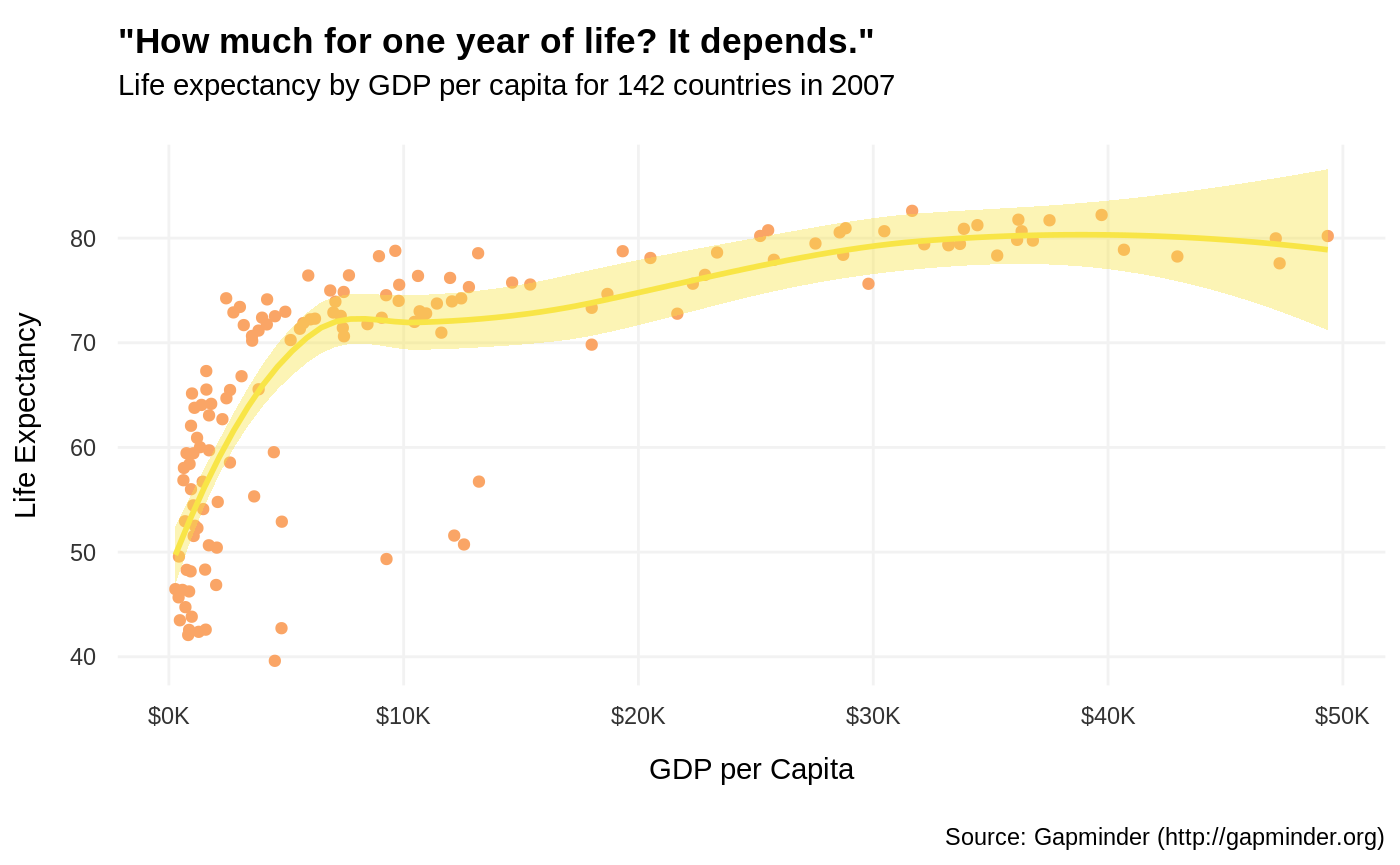
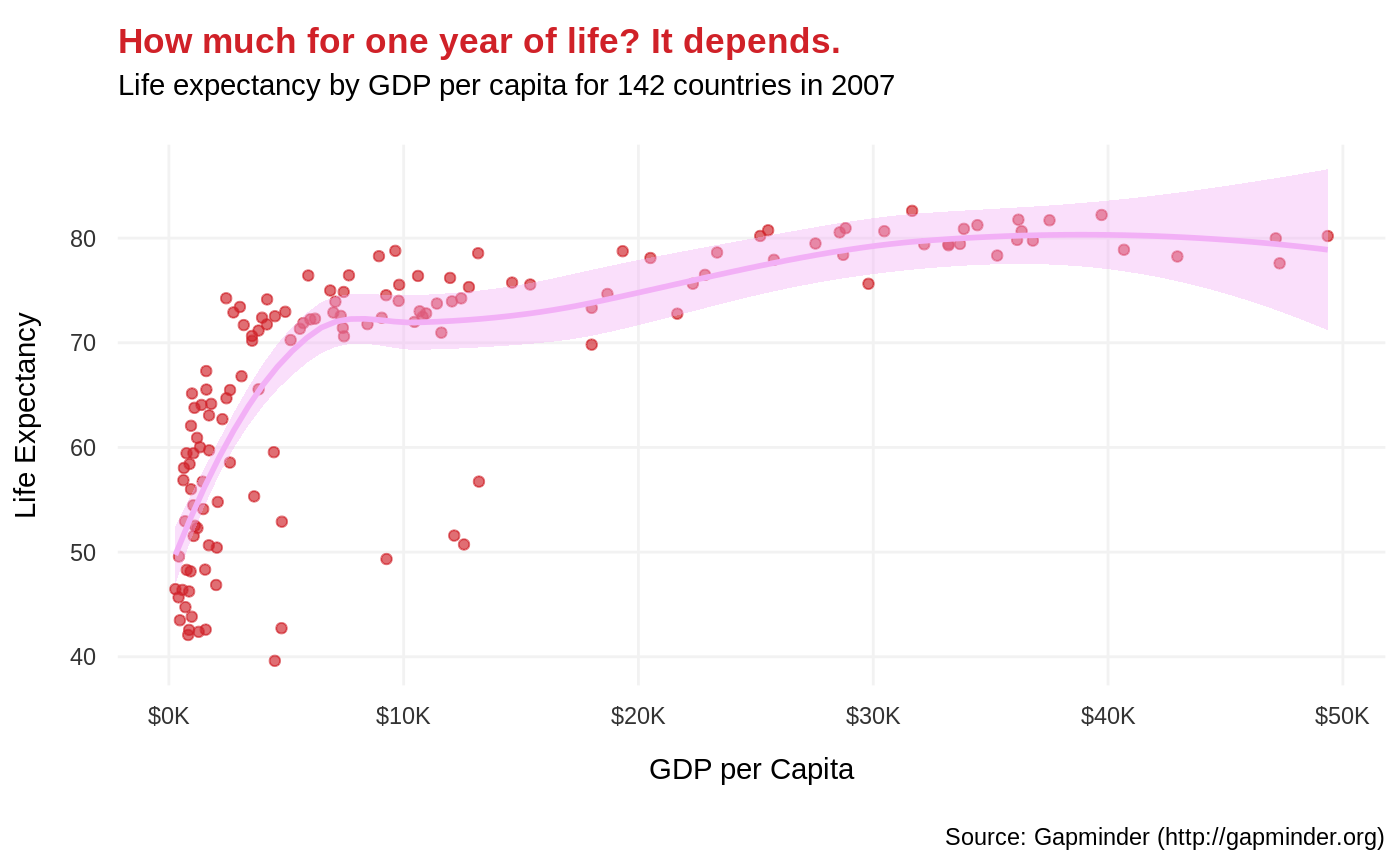
started colour palette development

diff --git a/docs/articles/gallery.html b/docs/articles/gallery.html
@@ -123,51 +123,51 @@
 <a class="sourceLine" id="cb3-2" data-line-number="2"><span class="st">  </span><span class="kw"><a href="https://rdrr.io/r/stats/filter.html">filter</a></span>(year <span class="op">==</span><span class="st"> </span><span class="dv">2007</span>)</a>
 <a class="sourceLine" id="cb3-3" data-line-number="3"></a>
 <a class="sourceLine" id="cb3-4" data-line-number="4"><span class="kw">ggplot</span>(data_viz, <span class="kw">aes</span>(<span class="dt">x =</span> gdp_percap, <span class="dt">y =</span> life_exp)) <span class="op">+</span></a>
-<a class="sourceLine" id="cb3-5" data-line-number="5"><span class="st">  </span><span class="kw">geom_point</span>() <span class="op">+</span></a>
+<a class="sourceLine" id="cb3-5" data-line-number="5"><span class="st">  </span><span class="kw">geom_point</span>(<span class="dt">alpha =</span> <span class="fl">0.65</span>) <span class="op">+</span></a>
 <a class="sourceLine" id="cb3-6" data-line-number="6"><span class="st">  </span><span class="kw">geom_smooth</span>(<span class="dt">method =</span> <span class="st">"loess"</span>) <span class="op">+</span></a>
 <a class="sourceLine" id="cb3-7" data-line-number="7"><span class="st">  </span><span class="kw">scale_x_continuous</span>(<span class="dt">labels =</span> <span class="kw"><a href="https://rdrr.io/pkg/scales/man/dollar_format.html">dollar_format</a></span>(<span class="dt">scale =</span> <span class="fl">1e-3</span>, <span class="dt">suffix =</span> <span class="st">"K"</span>)) <span class="op">+</span></a>
 <a class="sourceLine" id="cb3-8" data-line-number="8"><span class="st">  </span><span class="kw">labs</span>(</a>
-<a class="sourceLine" id="cb3-9" data-line-number="9">    <span class="dt">title =</span> <span class="st">"</span><span class="ch">\"</span><span class="st">How much for one year of life? It depends.</span><span class="ch">\"</span><span class="st">"</span>,</a>
+<a class="sourceLine" id="cb3-9" data-line-number="9">    <span class="dt">title =</span> <span class="st">"How much for one year of life? It depends."</span>,</a>
 <a class="sourceLine" id="cb3-10" data-line-number="10">    <span class="dt">subtitle =</span> <span class="st">"Life expectancy by GDP per capita for 142 countries in 2007"</span>,</a>
 <a class="sourceLine" id="cb3-11" data-line-number="11">    <span class="dt">caption =</span> <span class="st">"Source: Gapminder (http://gapminder.org)"</span>,</a>
 <a class="sourceLine" id="cb3-12" data-line-number="12">    <span class="dt">x =</span> <span class="st">"GDP per Capita"</span>,</a>
 <a class="sourceLine" id="cb3-13" data-line-number="13">    <span class="dt">y =</span> <span class="st">"Life Expectancy"</span></a>
 <a class="sourceLine" id="cb3-14" data-line-number="14">  )</a></code></pre></div>
-<p><img src="gallery_files/figure-html/unnamed-chunk-3-1.png" width="700"></p>
+<p><img src="gallery_files/figure-html/unnamed-chunk-3-1.png" width="700" style="display: block; margin: auto;"></p>
 </div>
 <div id="with-light-theme" class="section level3">
 <h3 class="hasAnchor">
 <a href="#with-light-theme" class="anchor"></a>With light theme</h3>
 <div class="sourceCode" id="cb4"><pre class="sourceCode r"><code class="sourceCode r"><a class="sourceLine" id="cb4-1" data-line-number="1"><span class="kw">ggplot</span>(data_viz, <span class="kw">aes</span>(<span class="dt">x =</span> gdp_percap, <span class="dt">y =</span> life_exp)) <span class="op">+</span></a>
-<a class="sourceLine" id="cb4-2" data-line-number="2"><span class="st">  </span><span class="kw">geom_point</span>(<span class="dt">colour =</span> <span class="kw"><a href="../reference/palette_algo_light.html">palette_algo_light</a></span>(<span class="st">"light-orange"</span>)) <span class="op">+</span></a>
-<a class="sourceLine" id="cb4-3" data-line-number="3"><span class="st">  </span><span class="kw">geom_smooth</span>(<span class="dt">method =</span> <span class="st">"loess"</span>, <span class="dt">colour =</span> <span class="kw"><a href="../reference/palette_algo_light.html">palette_algo_light</a></span>(<span class="st">"yellow"</span>), <span class="dt">fill =</span> <span class="kw"><a href="../reference/palette_algo_light.html">palette_algo_light</a></span>(<span class="st">"yellow"</span>)) <span class="op">+</span></a>
+<a class="sourceLine" id="cb4-2" data-line-number="2"><span class="st">  </span><span class="kw">geom_point</span>(<span class="dt">colour =</span> <span class="kw"><a href="../reference/palette_algo_light.html">palette_algo_light</a></span>(<span class="st">"red"</span>), <span class="dt">alpha =</span> <span class="fl">0.65</span>) <span class="op">+</span></a>
+<a class="sourceLine" id="cb4-3" data-line-number="3"><span class="st">  </span><span class="kw">geom_smooth</span>(<span class="dt">method =</span> <span class="st">"loess"</span>, <span class="dt">colour =</span> <span class="kw"><a href="../reference/palette_algo_light.html">palette_algo_light</a></span>(<span class="st">"purple"</span>), <span class="dt">fill =</span> <span class="kw"><a href="../reference/palette_algo_light.html">palette_algo_light</a></span>(<span class="st">"purple"</span>)) <span class="op">+</span></a>
 <a class="sourceLine" id="cb4-4" data-line-number="4"><span class="st">  </span><span class="kw">scale_x_continuous</span>(<span class="dt">labels =</span> <span class="kw"><a href="https://rdrr.io/pkg/scales/man/dollar_format.html">dollar_format</a></span>(<span class="dt">scale =</span> <span class="fl">1e-3</span>, <span class="dt">suffix =</span> <span class="st">"K"</span>)) <span class="op">+</span></a>
 <a class="sourceLine" id="cb4-5" data-line-number="5"><span class="st">  </span><span class="kw">labs</span>(</a>
-<a class="sourceLine" id="cb4-6" data-line-number="6">    <span class="dt">title =</span> <span class="st">"</span><span class="ch">\"</span><span class="st">How much for one year of life? It depends.</span><span class="ch">\"</span><span class="st">"</span>,</a>
+<a class="sourceLine" id="cb4-6" data-line-number="6">    <span class="dt">title =</span> <span class="st">"How much for one year of life? It depends."</span>,</a>
 <a class="sourceLine" id="cb4-7" data-line-number="7">    <span class="dt">subtitle =</span> <span class="st">"Life expectancy by GDP per capita for 142 countries in 2007"</span>,</a>
 <a class="sourceLine" id="cb4-8" data-line-number="8">    <span class="dt">caption =</span> <span class="st">"Source: Gapminder (http://gapminder.org)"</span>,</a>
 <a class="sourceLine" id="cb4-9" data-line-number="9">    <span class="dt">x =</span> <span class="st">"GDP per Capita"</span>,</a>
 <a class="sourceLine" id="cb4-10" data-line-number="10">    <span class="dt">y =</span> <span class="st">"Life Expectancy"</span></a>
 <a class="sourceLine" id="cb4-11" data-line-number="11">  ) <span class="op">+</span></a>
 <a class="sourceLine" id="cb4-12" data-line-number="12"><span class="st">  </span><span class="kw"><a href="../reference/theme_algo.html">theme_algo</a></span>(<span class="dt">mode =</span> <span class="st">"light"</span>)</a></code></pre></div>
-<p><img src="gallery_files/figure-html/unnamed-chunk-4-1.png" width="700"></p>
+<p><img src="gallery_files/figure-html/unnamed-chunk-4-1.png" width="700" style="display: block; margin: auto;"></p>
 </div>
 <div id="with-dark-theme" class="section level3">
 <h3 class="hasAnchor">
 <a href="#with-dark-theme" class="anchor"></a>With dark theme</h3>
 <div class="sourceCode" id="cb5"><pre class="sourceCode r"><code class="sourceCode r"><a class="sourceLine" id="cb5-1" data-line-number="1"><span class="kw">ggplot</span>(data_viz, <span class="kw">aes</span>(<span class="dt">x =</span> gdp_percap, <span class="dt">y =</span> life_exp)) <span class="op">+</span></a>
-<a class="sourceLine" id="cb5-2" data-line-number="2"><span class="st">  </span><span class="kw">geom_point</span>(<span class="dt">colour =</span> <span class="kw"><a href="../reference/palette_algo_light.html">palette_algo_dark</a></span>(<span class="st">"light-orange"</span>)) <span class="op">+</span></a>
-<a class="sourceLine" id="cb5-3" data-line-number="3"><span class="st">  </span><span class="kw">geom_smooth</span>(<span class="dt">method =</span> <span class="st">"loess"</span>, <span class="dt">colour =</span> <span class="kw"><a href="../reference/palette_algo_light.html">palette_algo_dark</a></span>(<span class="st">"yellow"</span>), <span class="dt">fill =</span> <span class="kw"><a href="../reference/palette_algo_light.html">palette_algo_dark</a></span>(<span class="st">"yellow"</span>)) <span class="op">+</span></a>
+<a class="sourceLine" id="cb5-2" data-line-number="2"><span class="st">  </span><span class="kw">geom_point</span>(<span class="dt">colour =</span> <span class="kw"><a href="../reference/palette_algo_light.html">palette_algo_dark</a></span>(<span class="st">"red"</span>), <span class="dt">alpha =</span> <span class="fl">0.65</span>) <span class="op">+</span></a>
+<a class="sourceLine" id="cb5-3" data-line-number="3"><span class="st">  </span><span class="kw">geom_smooth</span>(<span class="dt">method =</span> <span class="st">"loess"</span>, <span class="dt">colour =</span> <span class="kw"><a href="../reference/palette_algo_light.html">palette_algo_dark</a></span>(<span class="st">"purple"</span>), <span class="dt">fill =</span> <span class="kw"><a href="../reference/palette_algo_light.html">palette_algo_dark</a></span>(<span class="st">"purple"</span>)) <span class="op">+</span></a>
 <a class="sourceLine" id="cb5-4" data-line-number="4"><span class="st">  </span><span class="kw">scale_x_continuous</span>(<span class="dt">labels =</span> <span class="kw"><a href="https://rdrr.io/pkg/scales/man/dollar_format.html">dollar_format</a></span>(<span class="dt">scale =</span> <span class="fl">1e-3</span>, <span class="dt">suffix =</span> <span class="st">"K"</span>)) <span class="op">+</span></a>
 <a class="sourceLine" id="cb5-5" data-line-number="5"><span class="st">  </span><span class="kw">labs</span>(</a>
-<a class="sourceLine" id="cb5-6" data-line-number="6">    <span class="dt">title =</span> <span class="st">"</span><span class="ch">\"</span><span class="st">How much for one year of life? It depends.</span><span class="ch">\"</span><span class="st">"</span>,</a>
+<a class="sourceLine" id="cb5-6" data-line-number="6">    <span class="dt">title =</span> <span class="st">"How much for one year of life? It depends."</span>,</a>
 <a class="sourceLine" id="cb5-7" data-line-number="7">    <span class="dt">subtitle =</span> <span class="st">"Life expectancy by GDP per capita for 142 countries in 2007"</span>,</a>
 <a class="sourceLine" id="cb5-8" data-line-number="8">    <span class="dt">caption =</span> <span class="st">"Source: Gapminder (http://gapminder.org)"</span>,</a>
 <a class="sourceLine" id="cb5-9" data-line-number="9">    <span class="dt">x =</span> <span class="st">"GDP per Capita"</span>,</a>
 <a class="sourceLine" id="cb5-10" data-line-number="10">    <span class="dt">y =</span> <span class="st">"Life Expectancy"</span></a>
 <a class="sourceLine" id="cb5-11" data-line-number="11">  ) <span class="op">+</span></a>
 <a class="sourceLine" id="cb5-12" data-line-number="12"><span class="st">  </span><span class="kw"><a href="../reference/theme_algo.html">theme_algo</a></span>(<span class="dt">mode =</span> <span class="st">"dark"</span>)</a></code></pre></div>
-<p><img src="gallery_files/figure-html/unnamed-chunk-5-1.png" width="700"></p>
+<p><img src="gallery_files/figure-html/unnamed-chunk-5-1.png" width="700" style="display: block; margin: auto;"></p>
 </div>
 </div>
 <div id="bar" class="section level2">
@@ -189,13 +189,13 @@
 <a class="sourceLine" id="cb6-11" data-line-number="11"><span class="st">  </span><span class="kw">coord_flip</span>() <span class="op">+</span></a>
 <a class="sourceLine" id="cb6-12" data-line-number="12"><span class="st">  </span><span class="kw">guides</span>(<span class="dt">fill =</span> <span class="ot">FALSE</span>) <span class="op">+</span></a>
 <a class="sourceLine" id="cb6-13" data-line-number="13"><span class="st">  </span><span class="kw">labs</span>(</a>
-<a class="sourceLine" id="cb6-14" data-line-number="14">    <span class="dt">title =</span> <span class="st">"</span><span class="ch">\"</span><span class="st">Getting crowded, isn't it?</span><span class="ch">\"</span><span class="st">"</span>,</a>
+<a class="sourceLine" id="cb6-14" data-line-number="14">    <span class="dt">title =</span> <span class="st">"Getting crowded, isn't it?"</span>,</a>
 <a class="sourceLine" id="cb6-15" data-line-number="15">    <span class="dt">subtitle =</span> <span class="st">"Top 10 countries with most population in 2007"</span>,</a>
 <a class="sourceLine" id="cb6-16" data-line-number="16">    <span class="dt">caption =</span> <span class="st">"Source: Gapminder (http://gapminder.org)"</span>,</a>
 <a class="sourceLine" id="cb6-17" data-line-number="17">    <span class="dt">x =</span> <span class="ot">NULL</span>,</a>
 <a class="sourceLine" id="cb6-18" data-line-number="18">    <span class="dt">y =</span> <span class="ot">NULL</span></a>
 <a class="sourceLine" id="cb6-19" data-line-number="19">  )</a></code></pre></div>
-<p><img src="gallery_files/figure-html/unnamed-chunk-6-1.png" width="700"></p>
+<p><img src="gallery_files/figure-html/unnamed-chunk-6-1.png" width="700" style="display: block; margin: auto;"></p>
 </div>
 <div id="with-light-theme-1" class="section level3">
 <h3 class="hasAnchor">
@@ -207,7 +207,7 @@
 <a class="sourceLine" id="cb7-5" data-line-number="5"><span class="st">  </span><span class="kw">coord_flip</span>() <span class="op">+</span></a>
 <a class="sourceLine" id="cb7-6" data-line-number="6"><span class="st">  </span><span class="kw">guides</span>(<span class="dt">fill =</span> <span class="ot">FALSE</span>) <span class="op">+</span></a>
 <a class="sourceLine" id="cb7-7" data-line-number="7"><span class="st">  </span><span class="kw">labs</span>(</a>
-<a class="sourceLine" id="cb7-8" data-line-number="8">    <span class="dt">title =</span> <span class="st">"</span><span class="ch">\"</span><span class="st">Getting crowded, isn't it?</span><span class="ch">\"</span><span class="st">"</span>,</a>
+<a class="sourceLine" id="cb7-8" data-line-number="8">    <span class="dt">title =</span> <span class="st">"Getting crowded, isn't it?"</span>,</a>
 <a class="sourceLine" id="cb7-9" data-line-number="9">    <span class="dt">subtitle =</span> <span class="st">"Top 10 countries with most population in 2007"</span>,</a>
 <a class="sourceLine" id="cb7-10" data-line-number="10">    <span class="dt">caption =</span> <span class="st">"Source: Gapminder (http://gapminder.org)"</span>,</a>
 <a class="sourceLine" id="cb7-11" data-line-number="11">    <span class="dt">x =</span> <span class="ot">NULL</span>,</a>
@@ -215,7 +215,7 @@
 <a class="sourceLine" id="cb7-13" data-line-number="13">  ) <span class="op">+</span></a>
 <a class="sourceLine" id="cb7-14" data-line-number="14"><span class="st">  </span><span class="kw"><a href="../reference/theme_algo.html">theme_algo</a></span>(<span class="dt">mode =</span> <span class="st">"light"</span>) <span class="op">+</span></a>
 <a class="sourceLine" id="cb7-15" data-line-number="15"><span class="st">  </span><span class="kw"><a href="../reference/scale_fill_algo.html">scale_fill_algo</a></span>(<span class="dt">discrete =</span> <span class="ot">FALSE</span>, <span class="dt">mode =</span> <span class="st">"light"</span>)</a></code></pre></div>
-<p><img src="gallery_files/figure-html/unnamed-chunk-7-1.png" width="700"></p>
+<p><img src="gallery_files/figure-html/unnamed-chunk-7-1.png" width="700" style="display: block; margin: auto;"></p>
 </div>
 <div id="with-dark-theme-1" class="section level3">
 <h3 class="hasAnchor">
@@ -227,7 +227,7 @@
 <a class="sourceLine" id="cb8-5" data-line-number="5"><span class="st">  </span><span class="kw">coord_flip</span>() <span class="op">+</span></a>
 <a class="sourceLine" id="cb8-6" data-line-number="6"><span class="st">  </span><span class="kw">guides</span>(<span class="dt">fill =</span> <span class="ot">FALSE</span>) <span class="op">+</span></a>
 <a class="sourceLine" id="cb8-7" data-line-number="7"><span class="st">  </span><span class="kw">labs</span>(</a>
-<a class="sourceLine" id="cb8-8" data-line-number="8">    <span class="dt">title =</span> <span class="st">"</span><span class="ch">\"</span><span class="st">Getting crowded, isn't it?</span><span class="ch">\"</span><span class="st">"</span>,</a>
+<a class="sourceLine" id="cb8-8" data-line-number="8">    <span class="dt">title =</span> <span class="st">"Getting crowded, isn't it?"</span>,</a>
 <a class="sourceLine" id="cb8-9" data-line-number="9">    <span class="dt">subtitle =</span> <span class="st">"Top 10 countries with most population in 2007"</span>,</a>
 <a class="sourceLine" id="cb8-10" data-line-number="10">    <span class="dt">caption =</span> <span class="st">"Source: Gapminder (http://gapminder.org)"</span>,</a>
 <a class="sourceLine" id="cb8-11" data-line-number="11">    <span class="dt">x =</span> <span class="ot">NULL</span>,</a>
@@ -235,7 +235,7 @@
 <a class="sourceLine" id="cb8-13" data-line-number="13">  ) <span class="op">+</span></a>
 <a class="sourceLine" id="cb8-14" data-line-number="14"><span class="st">  </span><span class="kw"><a href="../reference/theme_algo.html">theme_algo</a></span>(<span class="dt">mode =</span> <span class="st">"dark"</span>) <span class="op">+</span></a>
 <a class="sourceLine" id="cb8-15" data-line-number="15"><span class="st">  </span><span class="kw"><a href="../reference/scale_fill_algo.html">scale_fill_algo</a></span>(<span class="dt">discrete =</span> <span class="ot">FALSE</span>, <span class="dt">mode =</span> <span class="st">"dark"</span>)</a></code></pre></div>
-<p><img src="gallery_files/figure-html/unnamed-chunk-8-1.png" width="700"></p>
+<p><img src="gallery_files/figure-html/unnamed-chunk-8-1.png" width="700" style="display: block; margin: auto;"></p>
 </div>
 </div>
 <div id="lollipop" class="section level2">
@@ -258,13 +258,13 @@
 <a class="sourceLine" id="cb9-12" data-line-number="12"><span class="st">  </span><span class="kw">coord_flip</span>() <span class="op">+</span></a>
 <a class="sourceLine" id="cb9-13" data-line-number="13"><span class="st">  </span><span class="kw">guides</span>(<span class="dt">colour =</span> <span class="ot">FALSE</span>) <span class="op">+</span></a>
 <a class="sourceLine" id="cb9-14" data-line-number="14"><span class="st">  </span><span class="kw">labs</span>(</a>
-<a class="sourceLine" id="cb9-15" data-line-number="15">    <span class="dt">title =</span> <span class="st">"</span><span class="ch">\"</span><span class="st">Getting crowded, isn't it?</span><span class="ch">\"</span><span class="st">"</span>,</a>
+<a class="sourceLine" id="cb9-15" data-line-number="15">    <span class="dt">title =</span> <span class="st">"Getting crowded, isn't it?"</span>,</a>
 <a class="sourceLine" id="cb9-16" data-line-number="16">    <span class="dt">subtitle =</span> <span class="st">"Top 10 countries with most population in 2007"</span>,</a>
 <a class="sourceLine" id="cb9-17" data-line-number="17">    <span class="dt">caption =</span> <span class="st">"Source: Gapminder (http://gapminder.org)"</span>,</a>
 <a class="sourceLine" id="cb9-18" data-line-number="18">    <span class="dt">x =</span> <span class="ot">NULL</span>,</a>
 <a class="sourceLine" id="cb9-19" data-line-number="19">    <span class="dt">y =</span> <span class="ot">NULL</span></a>
 <a class="sourceLine" id="cb9-20" data-line-number="20">  )</a></code></pre></div>
-<p><img src="gallery_files/figure-html/unnamed-chunk-9-1.png" width="700"></p>
+<p><img src="gallery_files/figure-html/unnamed-chunk-9-1.png" width="700" style="display: block; margin: auto;"></p>
 </div>
 <div id="with-light-theme-2" class="section level3">
 <h3 class="hasAnchor">
@@ -277,7 +277,7 @@
 <a class="sourceLine" id="cb10-6" data-line-number="6"><span class="st">  </span><span class="kw">coord_flip</span>() <span class="op">+</span></a>
 <a class="sourceLine" id="cb10-7" data-line-number="7"><span class="st">  </span><span class="kw">guides</span>(<span class="dt">colour =</span> <span class="ot">FALSE</span>) <span class="op">+</span></a>
 <a class="sourceLine" id="cb10-8" data-line-number="8"><span class="st">  </span><span class="kw">labs</span>(</a>
-<a class="sourceLine" id="cb10-9" data-line-number="9">    <span class="dt">title =</span> <span class="st">"</span><span class="ch">\"</span><span class="st">Getting crowded, isn't it?</span><span class="ch">\"</span><span class="st">"</span>,</a>
+<a class="sourceLine" id="cb10-9" data-line-number="9">    <span class="dt">title =</span> <span class="st">"Getting crowded, isn't it?"</span>,</a>
 <a class="sourceLine" id="cb10-10" data-line-number="10">    <span class="dt">subtitle =</span> <span class="st">"Top 10 countries with most population in 2007"</span>,</a>
 <a class="sourceLine" id="cb10-11" data-line-number="11">    <span class="dt">caption =</span> <span class="st">"Source: Gapminder (http://gapminder.org)"</span>,</a>
 <a class="sourceLine" id="cb10-12" data-line-number="12">    <span class="dt">x =</span> <span class="ot">NULL</span>,</a>
@@ -285,7 +285,7 @@
 <a class="sourceLine" id="cb10-14" data-line-number="14">  ) <span class="op">+</span></a>
 <a class="sourceLine" id="cb10-15" data-line-number="15"><span class="st">  </span><span class="kw"><a href="../reference/theme_algo.html">theme_algo</a></span>(<span class="dt">mode =</span> <span class="st">"light"</span>) <span class="op">+</span></a>
 <a class="sourceLine" id="cb10-16" data-line-number="16"><span class="st">  </span><span class="kw"><a href="../reference/scale_color_algo.html">scale_colour_algo</a></span>(<span class="dt">discrete =</span> <span class="ot">FALSE</span>, <span class="dt">mode =</span> <span class="st">"light"</span>)</a></code></pre></div>
-<p><img src="gallery_files/figure-html/unnamed-chunk-10-1.png" width="700"></p>
+<p><img src="gallery_files/figure-html/unnamed-chunk-10-1.png" width="700" style="display: block; margin: auto;"></p>
 </div>
 <div id="with-dark-theme-2" class="section level3">
 <h3 class="hasAnchor">
@@ -298,7 +298,7 @@
 <a class="sourceLine" id="cb11-6" data-line-number="6"><span class="st">  </span><span class="kw">coord_flip</span>() <span class="op">+</span></a>
 <a class="sourceLine" id="cb11-7" data-line-number="7"><span class="st">  </span><span class="kw">guides</span>(<span class="dt">colour =</span> <span class="ot">FALSE</span>) <span class="op">+</span></a>
 <a class="sourceLine" id="cb11-8" data-line-number="8"><span class="st">  </span><span class="kw">labs</span>(</a>
-<a class="sourceLine" id="cb11-9" data-line-number="9">    <span class="dt">title =</span> <span class="st">"</span><span class="ch">\"</span><span class="st">Getting crowded, isn't it?</span><span class="ch">\"</span><span class="st">"</span>,</a>
+<a class="sourceLine" id="cb11-9" data-line-number="9">    <span class="dt">title =</span> <span class="st">"Getting crowded, isn't it?"</span>,</a>
 <a class="sourceLine" id="cb11-10" data-line-number="10">    <span class="dt">subtitle =</span> <span class="st">"Top 10 countries with most population in 2007"</span>,</a>
 <a class="sourceLine" id="cb11-11" data-line-number="11">    <span class="dt">caption =</span> <span class="st">"Source: Gapminder (http://gapminder.org)"</span>,</a>
 <a class="sourceLine" id="cb11-12" data-line-number="12">    <span class="dt">x =</span> <span class="ot">NULL</span>,</a>
@@ -306,7 +306,7 @@
 <a class="sourceLine" id="cb11-14" data-line-number="14">  ) <span class="op">+</span></a>
 <a class="sourceLine" id="cb11-15" data-line-number="15"><span class="st">  </span><span class="kw"><a href="../reference/theme_algo.html">theme_algo</a></span>(<span class="dt">mode =</span> <span class="st">"dark"</span>) <span class="op">+</span></a>
 <a class="sourceLine" id="cb11-16" data-line-number="16"><span class="st">  </span><span class="kw"><a href="../reference/scale_color_algo.html">scale_colour_algo</a></span>(<span class="dt">discrete =</span> <span class="ot">FALSE</span>, <span class="dt">mode =</span> <span class="st">"dark"</span>)</a></code></pre></div>
-<p><img src="gallery_files/figure-html/unnamed-chunk-11-1.png" width="700"></p>
+<p><img src="gallery_files/figure-html/unnamed-chunk-11-1.png" width="700" style="display: block; margin: auto;"></p>
 </div>
 </div>
   </div>

diff --git a/docs/index.html b/docs/index.html
@@ -95,17 +95,17 @@
 <a class="sourceLine" id="cb2-8" data-line-number="8"><span class="st">  </span><span class="kw"><a href="https://ggplot2.tidyverse.org/reference/labs.html">labs</a></span>(<span class="dt">title =</span> <span class="st">"Iris: Reimagined"</span>, <span class="dt">x =</span> <span class="st">"Sepal Length"</span>, <span class="dt">y =</span> <span class="st">"Sepal Width"</span>)</a>
 <a class="sourceLine" id="cb2-9" data-line-number="9"></a>
 <a class="sourceLine" id="cb2-10" data-line-number="10">p</a></code></pre></div>
-<p><img src="reference/figures/README-unnamed-chunk-3-1.png"><!-- --></p>
+<p><img src="reference/figures/README-unnamed-chunk-3-1.png" style="display: block; margin: auto;"></p>
 <div class="sourceCode" id="cb3"><pre class="sourceCode r"><code class="sourceCode r"><a class="sourceLine" id="cb3-1" data-line-number="1"><span class="co"># with theme algo and light mode</span></a>
 <a class="sourceLine" id="cb3-2" data-line-number="2">p <span class="op">+</span></a>
 <a class="sourceLine" id="cb3-3" data-line-number="3"><span class="st">  </span><span class="kw"><a href="reference/theme_algo.html">theme_algo</a></span>(<span class="dt">mode =</span> <span class="st">"light"</span>) <span class="op">+</span></a>
 <a class="sourceLine" id="cb3-4" data-line-number="4"><span class="st">  </span><span class="kw"><a href="reference/scale_color_algo.html">scale_colour_algo</a></span>(<span class="dt">mode =</span> <span class="st">"light"</span>)</a></code></pre></div>
-<p><img src="reference/figures/README-unnamed-chunk-4-1.png"><!-- --></p>
+<p><img src="reference/figures/README-unnamed-chunk-4-1.png" style="display: block; margin: auto;"></p>
 <div class="sourceCode" id="cb4"><pre class="sourceCode r"><code class="sourceCode r"><a class="sourceLine" id="cb4-1" data-line-number="1"><span class="co"># with theme algo and dark mode</span></a>
 <a class="sourceLine" id="cb4-2" data-line-number="2">p <span class="op">+</span></a>
 <a class="sourceLine" id="cb4-3" data-line-number="3"><span class="st">  </span><span class="kw"><a href="reference/theme_algo.html">theme_algo</a></span>(<span class="dt">mode =</span> <span class="st">"dark"</span>) <span class="op">+</span></a>
 <a class="sourceLine" id="cb4-4" data-line-number="4"><span class="st">  </span><span class="kw"><a href="reference/scale_color_algo.html">scale_colour_algo</a></span>(<span class="dt">mode =</span> <span class="st">"dark"</span>)</a></code></pre></div>
-<p><img src="reference/figures/README-unnamed-chunk-5-1.png"><!-- --></p>
+<p><img src="reference/figures/README-unnamed-chunk-5-1.png" style="display: block; margin: auto;"></p>
 </div>
 </div>
   </div>

diff --git a/docs/reference/palette_algo_light.html b/docs/reference/palette_algo_light.html
@@ -129,15 +129,11 @@
 <span class='fu'><a href='https://rdrr.io/r/base/library.html'>library</a></span>(<span class='no'>algothemes</span>)
 
 <span class='co'># get the full light palette</span>
-<span class='fu'>palette_algo_light</span>()</div><div class='output co'>#&gt;   light-blue light-orange yellow-green light-purple        green    turquoise 
-#&gt;    "#b4ddd4"    "#faa566"    "#aaf841"    "#f2b0f6"    "#20f53d"    "#46ebdc" 
-#&gt;       yellow 
-#&gt;    "#f8e547" </div><div class='input'>
+<span class='fu'>palette_algo_light</span>()</div><div class='output co'>#&gt;       red    purple      blue    orange     green turquoise    yellow 
+#&gt; "#d02128" "#f2b0f6" "#b4ddd4" "#faa566" "#aaf841" "#46ebdc" "#f8e547" </div><div class='input'>
 <span class='co'># get the full dark palette</span>
-<span class='fu'>palette_algo_dark</span>()</div><div class='output co'>#&gt;   light-blue light-orange yellow-green light-purple        green    turquoise 
-#&gt;    "#b4ddd4"    "#faa566"    "#aaf841"    "#f2b0f6"    "#20f53d"    "#46ebdc" 
-#&gt;       yellow 
-#&gt;    "#f8e547" </div><div class='input'>
+<span class='fu'>palette_algo_dark</span>()</div><div class='output co'>#&gt;       red    purple      blue    orange     green turquoise    yellow 
+#&gt; "#d02928" "#f2b0f6" "#b4ddd4" "#faa566" "#aaf841" "#46ebdc" "#f8e547" </div><div class='input'>
 </div></pre>
   </div>
   <div class="col-md-3 hidden-xs hidden-sm" id="sidebar">

diff --git a/README.md b/README.md
@@ -41,7 +41,7 @@ p <- ggplot(iris, aes(x = Sepal.Length, y = Sepal.Width)) +
 p
 ```
 
-![](man/figures/README-unnamed-chunk-3-1.png)<!-- -->
+<img src="man/figures/README-unnamed-chunk-3-1.png" style="display: block; margin: auto;" />
 
 ``` r
 # with theme algo and light mode
@@ -50,7 +50,7 @@ p +
   scale_colour_algo(mode = "light")
 ```
 
-![](man/figures/README-unnamed-chunk-4-1.png)<!-- -->
+<img src="man/figures/README-unnamed-chunk-4-1.png" style="display: block; margin: auto;" />
 
 ``` r
 # with theme algo and dark mode
@@ -59,4 +59,4 @@ p +
   scale_colour_algo(mode = "dark")
 ```
 
-![](man/figures/README-unnamed-chunk-5-1.png)<!-- -->
+<img src="man/figures/README-unnamed-chunk-5-1.png" style="display: block; margin: auto;" />
